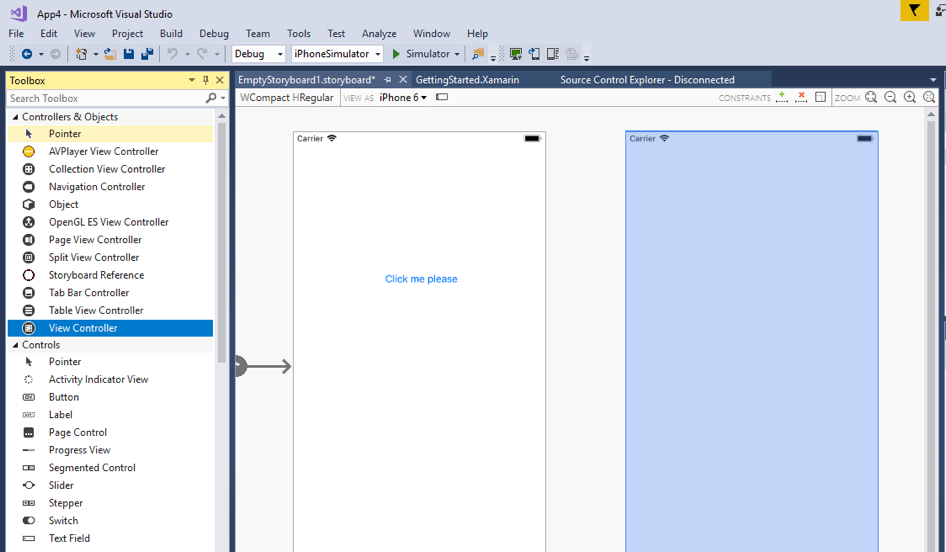
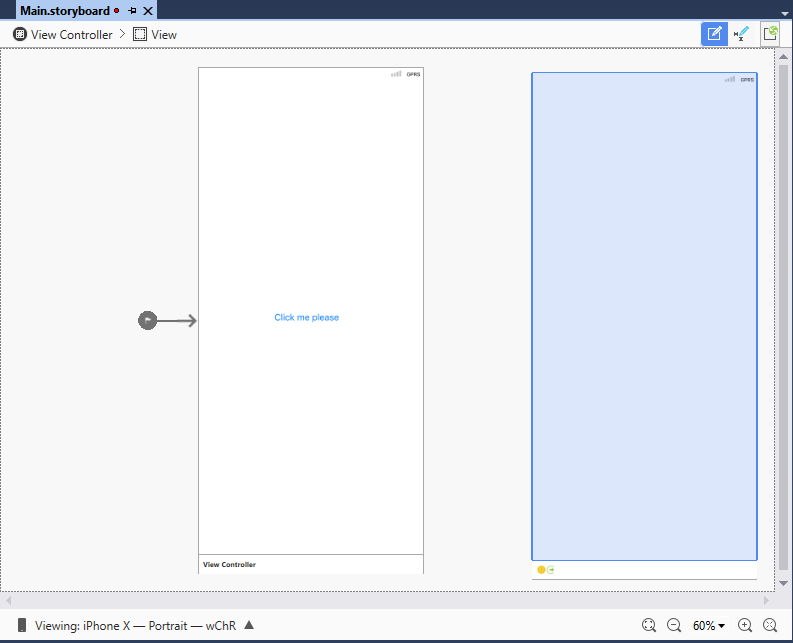
updated to dec 2018

diff --git a/Lab01/iOS/readme.md b/Lab01/iOS/readme.md
@@ -2,31 +2,27 @@
 **Prerequisites**: please make sure you have installed all necessary software. [Instructions](https://github.com/XpiritBV/xamarin-hands-on-labs/#getting-started).
 
 ## Objectives
-- Build your first app with Xamarin.Android
+- Build your first app with Xamarin.IOS
 
 ## Exercise 1: Basic navigation
 ### Instructions
-Create a new iOS/iPhone project in Visual Studio 2017: `File > New Project > iOS > Blank App (iPhone)` or in Visual Studio for Mac: `File > New Solution > iOS > Blank iOS App`.
+Create a new iOS/iPhone project in Visual Studio 2017: `File > New Project > iPhone & iPad > iOS App (Xamarin) and on the next screen Single view App` or in Visual Studio for Mac: `File > New Solution > iOS > Single View App`.
 
 ![New project](./images/ios01.png)
 
-Add iPhone Storyboard View Controller:
+Open the storyboard file Main.Storyboard. 
 
-![Add storyboard](./images/ios02.png)
+Change the view of the canvas to show the view as on the iPhone .
 
-Open the storyboard file. Add a new `ViewController` to the canvas by selecting the `ViewController` in the toolbox and dragging it onto the canvas.
+![Change view](./images/ios02.png)
 
-![Drag storyboard](./images/ios03.png)
+On the canvas you see A view Controller that contains a view.
 
-Change the view of the canvas to show the view as on the iPhone 6, 7 or 8 (depending on the SDK you have installed).
-
-![Change view](./images/ios04.png)
-
-From the toolbox add a `Button` to the `ViewController`.
+From the toolbox drag a `Button` to the `ViewController`and drop it there.
 
 ![Add button](./images/ios05.png)
 
-Change the `Title` property to “click me please”.
+Next change the `Title` property to “click me please”.
 
 ![Change button title](./images/ios06.png)
 
@@ -42,19 +38,9 @@ Give the `ViewController` a `Label` with text so we can see we are on a second p
 
 ![Storyboard](./images/ios09.png)
 
-Now select the button and hold the `CTRL` or `Command` key. Then drag from the button to the second `NavigationController`. When you release the mouse button, select the option for the `Action Segue` **“Modal”**. In `AppDelegate.cs`, make a code change where we add a `Window Property` like this:
+Now select the button and hold the `CTRL` or `Command` key. Then drag from the button to the second `ViewController`. When you release the mouse button, select the option for the `Action Segue` **“Show”**. 
 
-```csharp
-UIWindow _window;
-
-public override UIWindow Window
-{
-    get { return _window;}
-    set { _window = value; }
-}
-```
-
-And we **comment out** the method: `FinishLaunching`. Now go to the `info.plist` file and select our storyboard file as the startup. This will now wire up the storyboard as the main UI.
+Now check that in the Info.plist the main interface is selected to be Main
 
 ![Storyboard](./images/ios10.png)
 
@@ -62,7 +48,7 @@ Now build the solution and run it in the simulator. Now after we click the butto
 
 Go to the second page on the story board and add an additional `Button`.
 
-Now we need to add some code behind the click of the button. In order to make this work you need to first select the NavigationController, by clicking in the bottom dark bar in the storyboard designer for the `ViewController`:
+Now we need to add some code behind the click of the button. In order to make this work you need to first select the NavigationController, by clicking in the bottom dark bar in the storyboard designer for the 2nth `ViewController`:
 
 ![Storyboard](./images/ios11.png)
 
@@ -72,10 +58,13 @@ Now select the button again and also give it a name:
 
 ![Storyboard](./images/ios12.png)
 
- Now double click the button, since it now has a code behind, it will jump to the event handler for this button. There we add the following statement to dismiss the modal `ViewController`:
+ Now double click the button, since it now has a code behind, it will jump to the event handler for this button. There we add the following statement to dismiss the `ViewController`:
 
  ```csharp
-DismissModalViewController(true);
+    partial void BackButton_TouchUpInside(UIButton sender)
+    {
+        this.DismissViewController(true, null);
+    };
  ```
 
 Run the application and see you can now navigate between the two windows.
@@ -88,23 +77,15 @@ Select empty iOS application:
 
 ![New project](./images/ios21.png)
 
-Add a new storyboard to the project: 
+Open the Story Board Main.Storyboard and delete the exisiting viewcontroller so the storyboard is empty.
 
-![Add storyboard](./images/ios22.png)
-
-When you get a message to trust the template, click on the trust button, so the template can be used.
-![trust](./images/ios22a.png)
-
-
- Drag from the toolbox a new `Navigation Controller`. The storyboard looks like follows when done:
+Next you drag from the toolbox a new `Navigation Controller`. The storyboard looks like follows when done:
 
 ![Add navigation controller](./images/ios23.png)
 
-Make the same changes in the `AppDelegate` and the `info.plist` files so we can load up the storyboard, just as done in the first exercise.
-
 Test the project in the simulator and see if it runs. 
 
-By default we got as the startup screen the table view controller, so next is some code so we can fill the table with some data.
+By default we got as the startup screen the table view controller, so next we need to write some code to fill the table with some data.
 
 Select the `Table View Controller` and now go to the class properties and give it the name `CitiesTableViewController`, so we get a code behind class where we can code the initialization of the table.
 
@@ -172,6 +153,77 @@ public override void ViewDidLoad()
     this.TableView.Source = new CitiesTableViewSource();
 }
 ```
+Now build and run the application. If you implemented all without errors, your application should look as follows:
+
+![Running Application](./images/ios25.png)
+
+## Exercise 3: Navigation on selection
+### Instructions
+
+Now we want to implement that the moment we click on one of the cells, we navigate to a details page, that shows the name of the city.
+
+In the storyboard, first add a new ViewController. Give it the name CityDetailsViewController.
+
+We are going to load this page from code, therefore we need to provide an identifier to the view controller, so we can load it from the storyboard. For this you set the StoryBoardID.
+
+This should look as follows:
+![CityDetailsViewController](./images/ios30.png)
+
+On the CityDetailsViewController add a label, that we can set the moment the page loads. 
+
+Now goto the CityDetailsViewController.cs file and there add to the class a property that can be set, which contains the city name to display. We will set this name, after we load the viewController from the storyboard and in the load of the page we then set the text label to display the name of the property.
+
+The class should look like this:
+
+``` csharp
+public partial class CityDetailsViewController : UIViewController
+{
+    public string CityToDisplay { get; set; }
+    public CityDetailsViewController (IntPtr handle) : base (handle)
+    {
+    }
+
+    public override void ViewDidLoad()
+    {
+        txtCity.Text = CityToDisplay;
+    }
+}
+```
+Next we need to hook-up the touch handler in the cells. For this we can implement an override function `RowSelected`. YOu override this function in the CitiesTableViewSource we created in the previous excersise.
+
+In the handling of the selection of the cell, we then load from the Main.Storyboard file the Details View controller. Then we assign the propoerty of the details controller the selected value and we then display it. To display the new view controller we also need access to the TableViewController, that is displaying the row of cities. For this we change the constructor to accept a ViewController as input and we save it in a private field with the name `_parent`
+
+
+The next code will do the job:
+``` csharp
+//constructor:
+private UIViewController _parent;
+public CitiesTableViewSource(UIViewController parent)
+{
+    _citiesList.Add("New York");
+    _citiesList.Add("San Francisco");
+    _citiesList.Add("Redmond");
+    _citiesList.Add("Las Vegas");
+    _citiesList.Add("Chicago");
+    _citiesList.Add("Orlando");
+    _parent = parent;
+}
+//RowSelected override
+public override void RowSelected(UITableView tableView, NSIndexPath indexPath)
+{
+    var storyboard = UIStoryboard.FromName("Main", null);
+    var detailsViewController = storyboard.InstantiateViewController("CityDetails") as CityDetailsViewController;
+
+    detailsViewController.CityToDisplay = _citiesList[indexPath.Row];
+
+    _parent.ShowViewController(detailsViewController, this);
+}
+```
+the final change is the fix of calling the constructor of `CitiesTableViewSource` since it now requires a parent reference. Change the line to now pass in the `this` pointer. 
+
+Compile and run the application. If all went well, you should now be able to navigate when clicking a cell and because we use the navigationViewController, the back button is arranged automaticaly when we show the details viewcontroller.
+
+![FinalProduct](./images/ios32.png)
 
 # Congratulations!
 You've built your first Xamarin.iOS app.
